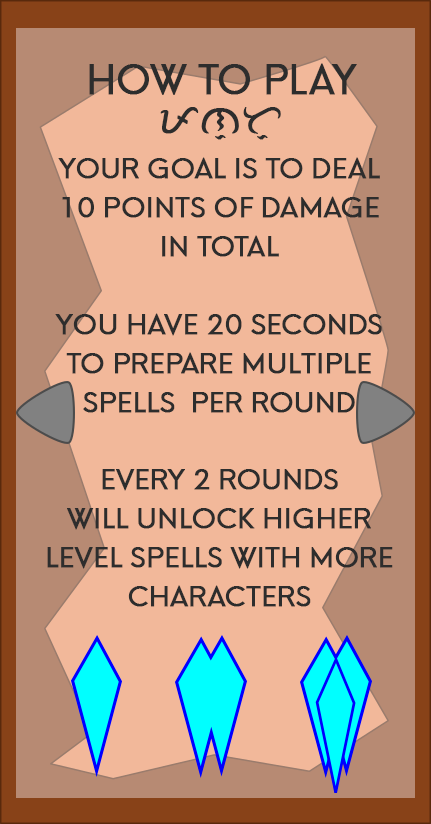
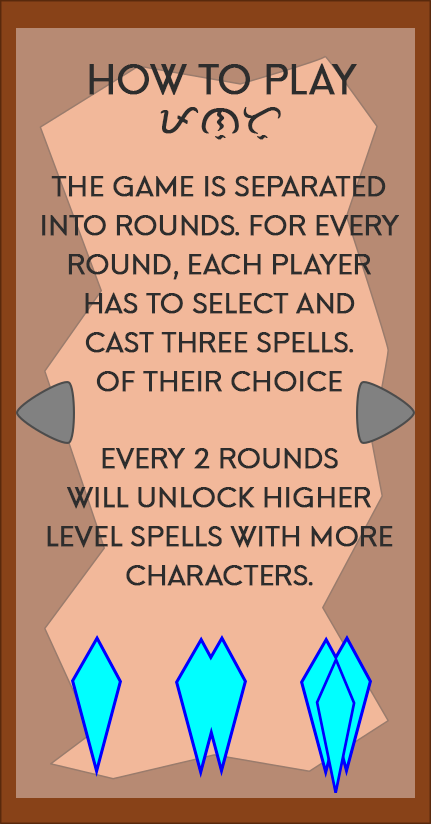
tutorial update

Changed region(s): [[0.0905, 0.182, 0.935, 0.5158], [0.0905, 0.5461, 0.9049, 0.7585]]

diff --git a/public/tutorial.html b/public/tutorial.html
@@ -47,7 +47,7 @@
     
   }
   function next(){
-    if(page==3){
+    if(page==5){
       self.location.replace('home.html');
     }
     page++;
